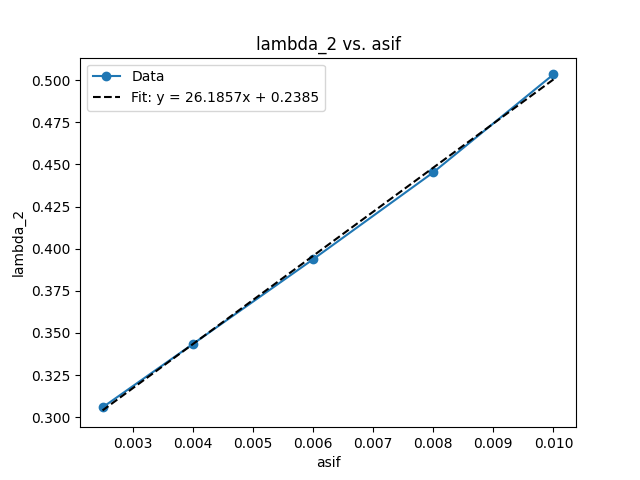
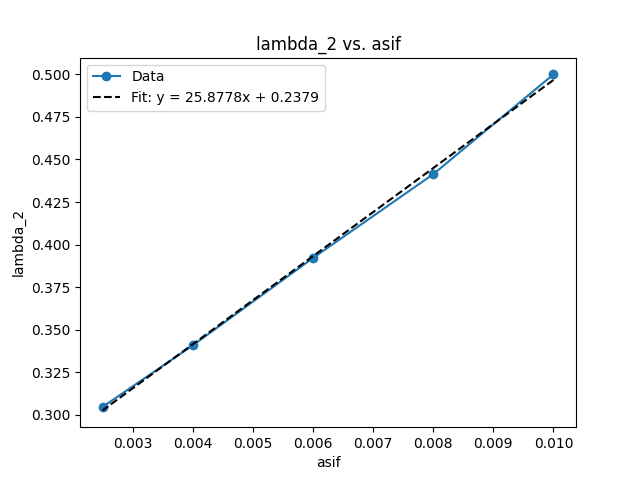
seeing difference in K and K/2

diff --git a/Logtests/ps/shower_NLL_cusp_thrust.py b/Logtests/ps/shower_NLL_cusp_thrust.py
@@ -67,7 +67,7 @@ def wLL(tau):
      exponC = np.exp(-analytics.R_L(tau)-analytics.R_NLLc(tau))
      return partC*exponC
 
-def torch_quad(func, a, b, func_mul=None, func_mul2=None, num_steps=10000000):
+def torch_quad(func, a, b, func_mul=None, func_mul2=None, num_steps=100000000):
     # Create logarithmically spaced points
     x = torch.logspace(torch.log10(a), torch.log10(b), steps=num_steps, dtype=torch.float64)
 
@@ -161,11 +161,11 @@ def integral_equation_2_direct(lambda_0,lambda_1, lambda_2, tau_i, n_samp):
 
 # Initialize the Lagrange multipliers
 lambda_0 = torch.tensor([0.2819207*0], requires_grad=True)
-lambda_1 = torch.tensor([0.28430208563], requires_grad=True)
-lambda_2 = torch.tensor([0.5], requires_grad=True)
+lambda_2 = torch.tensor([0.28430208563], requires_grad=True)
+lambda_1 = torch.tensor([0.09085331112146378], requires_grad=True)
 
 # Define the optimizer
-optimizer = optim.Adam([lambda_1,lambda_2], lr=0.001)
+optimizer = optim.Adam([lambda_2], lr=0.001)
 
 # Optimization loop
 # Lists to collect data
@@ -173,7 +173,7 @@ lambda_1_values = []
 lambda_2_values = []
 loss_values = []
 n_samp_values = []
-min_loss = 4e-4
+min_loss = 1e-10
 no_decrease_counter = 0
 max_no_decrease_steps = 10
 
@@ -202,7 +202,7 @@ for step in range(1000000):
     optimizer.zero_grad()
     loss_1 = torch.abs(integral_equation_1_direct(lambda_0, lambda_1, lambda_2, filtered_tau_i, n_samp))
     loss_2 = torch.abs(integral_equation_2_direct(lambda_0, lambda_1, lambda_2, filtered_tau_i, n_samp))
-    loss = loss_1+loss_2
+    loss = loss_2
 
 
     if torch.isnan(loss):
